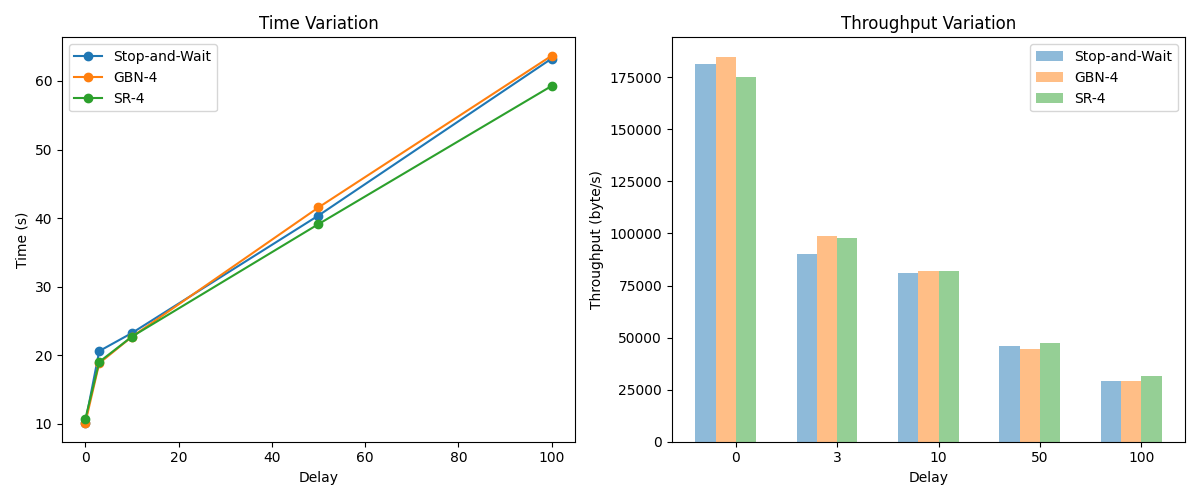
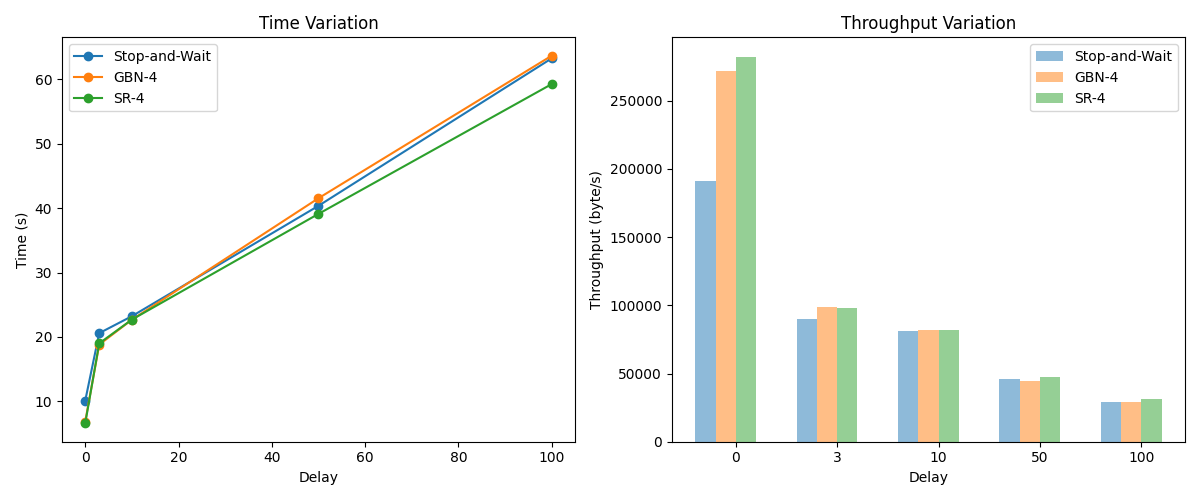
lab3-4 q1

diff --git a/lab3-4/draw.py b/lab3-4/draw.py
@@ -41,11 +41,11 @@ def plot2():
     delay = [0, 3, 10, 50, 100]
     time_data = [
         [10.0938, 20.5847, 23.2214, 40.3672, 63.2744],   # Stop-and-Wait
-        [10.043, 18.8082, 22.6763, 41.5457, 63.688],    # GBN-4
-        [10.6188, 19.001, 22.6937, 39.1142, 59.2775],   # SR-4
-        [181228, 90229.78231, 80894.1707, 46011.5, 29353.9],   # Stop-and-Wait
-        [184939, 98752.29953, 81907.23354, 44706.2, 29163.3],   # GBN-4
-        [174912, 97750.2763, 81844.4326, 47485.4, 31333.2]    # SR-4
+        [6.83888, 18.8082, 22.6763, 41.5457, 63.688],    # GBN-4
+        [6.57671, 19.001, 22.6937, 39.1142, 59.2775],   # SR-4
+        [191228, 90229.78231, 80894.1707, 46011.5, 29353.9],   # Stop-and-Wait
+        [271587, 98752.29953, 81907.23354, 44706.2, 29163.3],   # GBN-4
+        [282414, 97750.2763, 81844.4326, 47485.4, 31333.2]    # SR-4
     ]
 
     # 创建画布和子图

diff --git a/lab3-4/lab3-4.md b/lab3-4/lab3-4.md
@@ -31,7 +31,7 @@ const int MAX_TIME = 0.5*CLOCKS_PER_SEC;
 | 报文平均往返时延 (ms)   | 1.72       | 1.25       | 1.37        |
 | 传输吞吐率 (byte/s)  | 2371898.41 | 3264929.34 | 2969883.08  |
 
-可以看到，在网络通畅时，滑动窗口机制的性能绝对优于停等机制，但是在网络不稳定时，滑动窗口机制的性能就会因为重传，线程同步等开销而下降。  
+可以看到，在**网络通畅**时，**滑动窗口机制的性能绝对优于停等机制**，但是在网络不稳定时，滑动窗口机制的性能就会因为重传，线程同步等开销而下降。  
 
 ### 控制时延
 设置`router`程序的延时为3ms，不断调整丢包率，可得到如下图所示结果：  
@@ -39,6 +39,12 @@ const int MAX_TIME = 0.5*CLOCKS_PER_SEC;
 <img src="pic/t1p1.png" width="600">
 </center>
 
+如图可以看到：  
+- 初始丢包率较小时，滑动窗口机制的性能优于停等机制。因为滑动窗口利用**流水线**的方式，可以在等待确认的同时发送新的数据，而停等机制则需要停止等待，不能充分利用带宽。
+- 随着丢包率的增加，**GBN的性能下降很快**，最后甚至远低于停等机制。这是因为GBN陷入了**不断重传**而失去了流水线的优势。
+- 另一方面，SR的性能依然保持在一个较高的水平，这是因为SR可以**选择性重传**，只重传丢失的数据包，**不会比停等机制多重传数据**。
+  
+需要注意的是，当陷入重传时，滑动窗的性能除了因为重传开销而下降，还会因为多线程维护全局窗口缓存的**线程同步**开销而下降。
 
 
 ### 控制丢包率
@@ -46,6 +52,11 @@ const int MAX_TIME = 0.5*CLOCKS_PER_SEC;
 <center>
 <img src="pic/t1p2.png" width="600">
 </center>
+
+- 不设置`router`延时时，滑动窗口的性能大幅优于停等机制，原因通前述一致，滑动窗利用流水线的方式充分利用了带宽。
+- 设置延时后，滑动窗的性能与停等机制一样开始不断下降，但与停等相比，仍然能够保持**微弱的领先**。
+- 虽然图中表现不明显，但如果延时设置过大，也会**导致滑动窗陷入不断重传的状态**，性能会急剧下降。特别是在窗口更大的情况下，处理时线程同步开销更大，更容易陷入大量重传状态。
+
 
 ## 滑动窗口机制中不同窗口大小对性能的影响
 ### GBN
